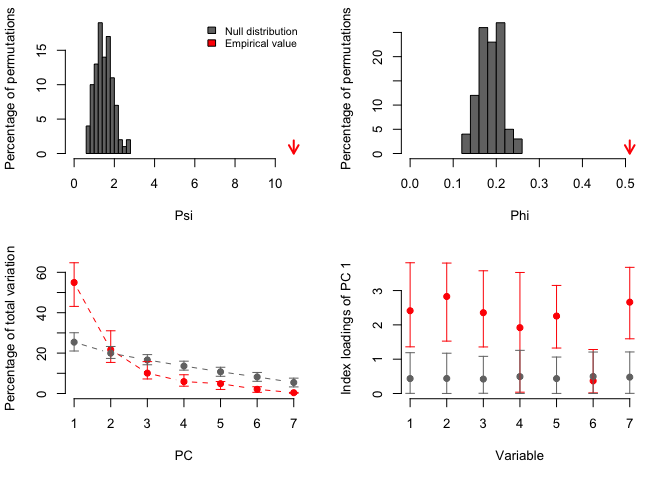
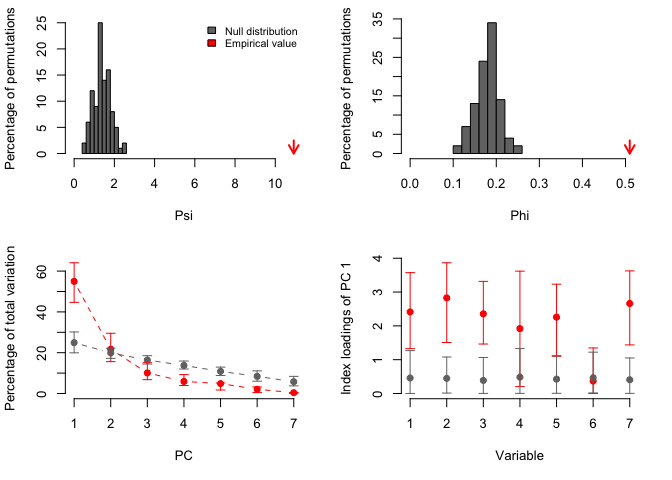
new commit

diff --git a/README.md b/README.md
@@ -52,8 +52,8 @@ result<-PCAtest(ex0, 100, 100, 0.05, varcorr=FALSE, counter=FALSE, plot=TRUE)
 #> 100 bootstrap replicates, 100 random permutations
 #> ========================================================
 #> 
-#> Empirical Psi = 0.1691, Max null Psi = 0.4298, Min null Psi = 0.0429, p-value = 0.61
-#> Empirical Phi = 0.0920, Max null Phi = 0.1466, Min null Phi = 0.0463, p-value = 0.61
+#> Empirical Psi = 0.1691, Max null Psi = 0.4123, Min null Psi = 0.0393, p-value = 0.47
+#> Empirical Phi = 0.0920, Max null Phi = 0.1436, Min null Phi = 0.0443, p-value = 0.47
 #> 
 #> PCA is not significant!
 ```
@@ -78,16 +78,16 @@ result<-PCAtest(ex05, 100, 100, 0.05, varcorr=FALSE, counter=FALSE, plot=TRUE)
 #> 100 bootstrap replicates, 100 random permutations
 #> ========================================================
 #> 
-#> Empirical Psi = 5.4655, Max null Psi = 0.5581, Min null Psi = 0.0550, p-value = 0
-#> Empirical Phi = 0.5228, Max null Phi = 0.1670, Min null Phi = 0.0524, p-value = 0
+#> Empirical Psi = 5.4655, Max null Psi = 0.4157, Min null Psi = 0.0546, p-value = 0
+#> Empirical Phi = 0.5228, Max null Phi = 0.1442, Min null Phi = 0.0523, p-value = 0
 #> 
-#> Empirical eigenvalue #1 = 3.08098, Max null eigenvalue = 1.54632, p-value = 0
-#> Empirical eigenvalue #2 = 0.63526, Max null eigenvalue = 1.30855, p-value = 1
-#> Empirical eigenvalue #3 = 0.52603, Max null eigenvalue = 1.10502, p-value = 1
-#> Empirical eigenvalue #4 = 0.43234, Max null eigenvalue = 0.99491, p-value = 1
-#> Empirical eigenvalue #5 = 0.3254, Max null eigenvalue = 0.84943, p-value = 1
+#> Empirical eigenvalue #1 = 3.08098, Max null eigenvalue = 1.49787, p-value = 0
+#> Empirical eigenvalue #2 = 0.63526, Max null eigenvalue = 1.25772, p-value = 1
+#> Empirical eigenvalue #3 = 0.52603, Max null eigenvalue = 1.08087, p-value = 1
+#> Empirical eigenvalue #4 = 0.43234, Max null eigenvalue = 0.99539, p-value = 1
+#> Empirical eigenvalue #5 = 0.3254, Max null eigenvalue = 0.86255, p-value = 1
 #> 
-#> PC 1 is significant and accounts for 61.6% (95%-CI:54-68.2) of the total variation
+#> PC 1 is significant and accounts for 61.6% (95%-CI:56.3-68) of the total variation
 #> 
 #> Variables 1, 2, 3, 4, and 5 have significant loadings on PC 1
 ```
@@ -114,14 +114,14 @@ result<-PCAtest(ex1, 100, 100, 0.05, varcorr=FALSE, counter=FALSE, plot=TRUE)
 #> 100 bootstrap replicates, 100 random permutations
 #> ========================================================
 #> 
-#> Empirical Psi = 20.0000, Max null Psi = 0.4075, Min null Psi = 0.0521, p-value = 0
-#> Empirical Phi = 1.0000, Max null Phi = 0.1427, Min null Phi = 0.0510, p-value = 0
+#> Empirical Psi = 20.0000, Max null Psi = 0.4716, Min null Psi = 0.0418, p-value = 0
+#> Empirical Phi = 1.0000, Max null Phi = 0.1536, Min null Phi = 0.0457, p-value = 0
 #> 
-#> Empirical eigenvalue #1 = 5, Max null eigenvalue = 1.48414, p-value = 0
-#> Empirical eigenvalue #2 = 0, Max null eigenvalue = 1.22265, p-value = 1
-#> Empirical eigenvalue #3 = 0, Max null eigenvalue = 1.08145, p-value = 1
-#> Empirical eigenvalue #4 = 0, Max null eigenvalue = 0.97183, p-value = 1
-#> Empirical eigenvalue #5 = 0, Max null eigenvalue = 0.85768, p-value = 1
+#> Empirical eigenvalue #1 = 5, Max null eigenvalue = 1.4921, p-value = 0
+#> Empirical eigenvalue #2 = 0, Max null eigenvalue = 1.22417, p-value = 1
+#> Empirical eigenvalue #3 = 0, Max null eigenvalue = 1.11378, p-value = 1
+#> Empirical eigenvalue #4 = 0, Max null eigenvalue = 0.98398, p-value = 1
+#> Empirical eigenvalue #5 = 0, Max null eigenvalue = 0.88335, p-value = 1
 #> 
 #> PC 1 is significant and accounts for 100% (95%-CI:100-100) of the total variation
 #> 
@@ -149,20 +149,24 @@ result<-PCAtest(ants, 100, 100, 0.05, varcorr=FALSE, counter=FALSE, plot=TRUE)
 #> 100 bootstrap replicates, 100 random permutations
 #> ========================================================
 #> 
-#> Empirical Psi = 10.9186, Max null Psi = 2.7882, Min null Psi = 0.7678, p-value = 0
-#> Empirical Phi = 0.5099, Max null Phi = 0.2577, Min null Phi = 0.1352, p-value = 0
+#> Empirical Psi = 10.9186, Max null Psi = 2.5257, Min null Psi = 0.4312, p-value = 0
+#> Empirical Phi = 0.5099, Max null Phi = 0.2452, Min null Phi = 0.1013, p-value = 0
 #> 
-#> Empirical eigenvalue #1 = 3.84712, Max null eigenvalue = 2.30242, p-value = 0
-#> Empirical eigenvalue #2 = 1.52017, Max null eigenvalue = 1.81208, p-value = 0.14
-#> Empirical eigenvalue #3 = 0.70634, Max null eigenvalue = 1.39199, p-value = 1
-#> Empirical eigenvalue #4 = 0.41356, Max null eigenvalue = 1.13862, p-value = 1
-#> Empirical eigenvalue #5 = 0.34001, Max null eigenvalue = 0.95282, p-value = 1
-#> Empirical eigenvalue #6 = 0.14515, Max null eigenvalue = 0.74811, p-value = 1
-#> Empirical eigenvalue #7 = 0.02765, Max null eigenvalue = 0.57806, p-value = 1
+#> Empirical eigenvalue #1 = 3.84712, Max null eigenvalue = 2.14286, p-value = 0
+#> Empirical eigenvalue #2 = 1.52017, Max null eigenvalue = 1.63074, p-value = 0.1
+#> Empirical eigenvalue #3 = 0.70634, Max null eigenvalue = 1.41902, p-value = 1
+#> Empirical eigenvalue #4 = 0.41356, Max null eigenvalue = 1.12539, p-value = 1
+#> Empirical eigenvalue #5 = 0.34001, Max null eigenvalue = 0.93312, p-value = 1
+#> Empirical eigenvalue #6 = 0.14515, Max null eigenvalue = 0.80617, p-value = 1
+#> Empirical eigenvalue #7 = 0.02765, Max null eigenvalue = 0.63842, p-value = 1
 #> 
-#> PC 1 is significant and accounts for 55% (95%-CI:43.1-64.7) of the total variation
+#> PC 1 is significant and accounts for 55% (95%-CI:44.7-64.1) of the total variation
 #> 
 #> Variables 1, 2, 3, 4, 5, and 7 have significant loadings on PC 1
 ```
 
 <img src="man/figures/README-example4-1.png" width="100%" />
+
+## Testing
+
+[Automated testing with testthat:](tests/testthat/testhat.md)
